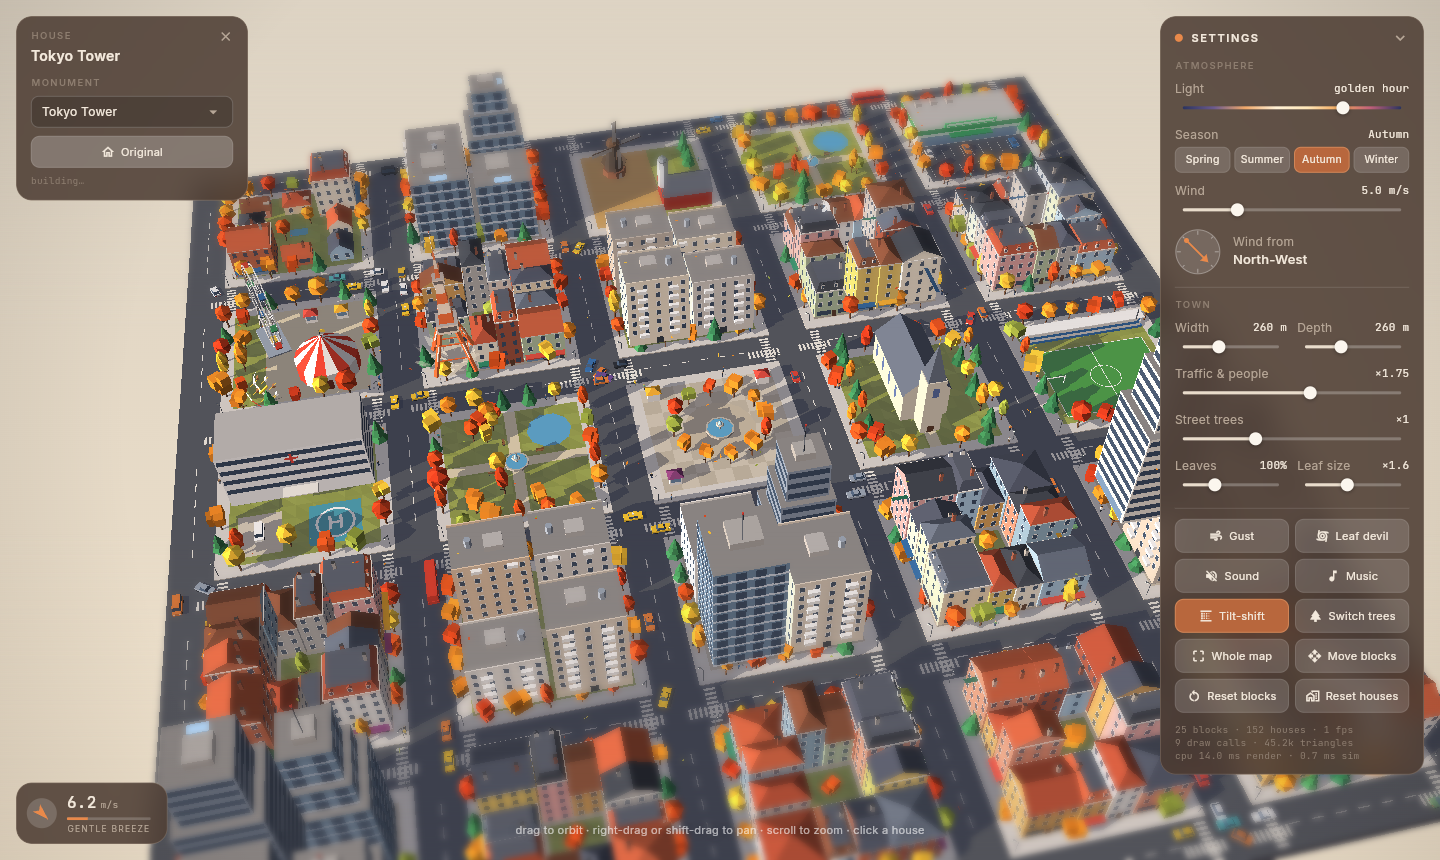
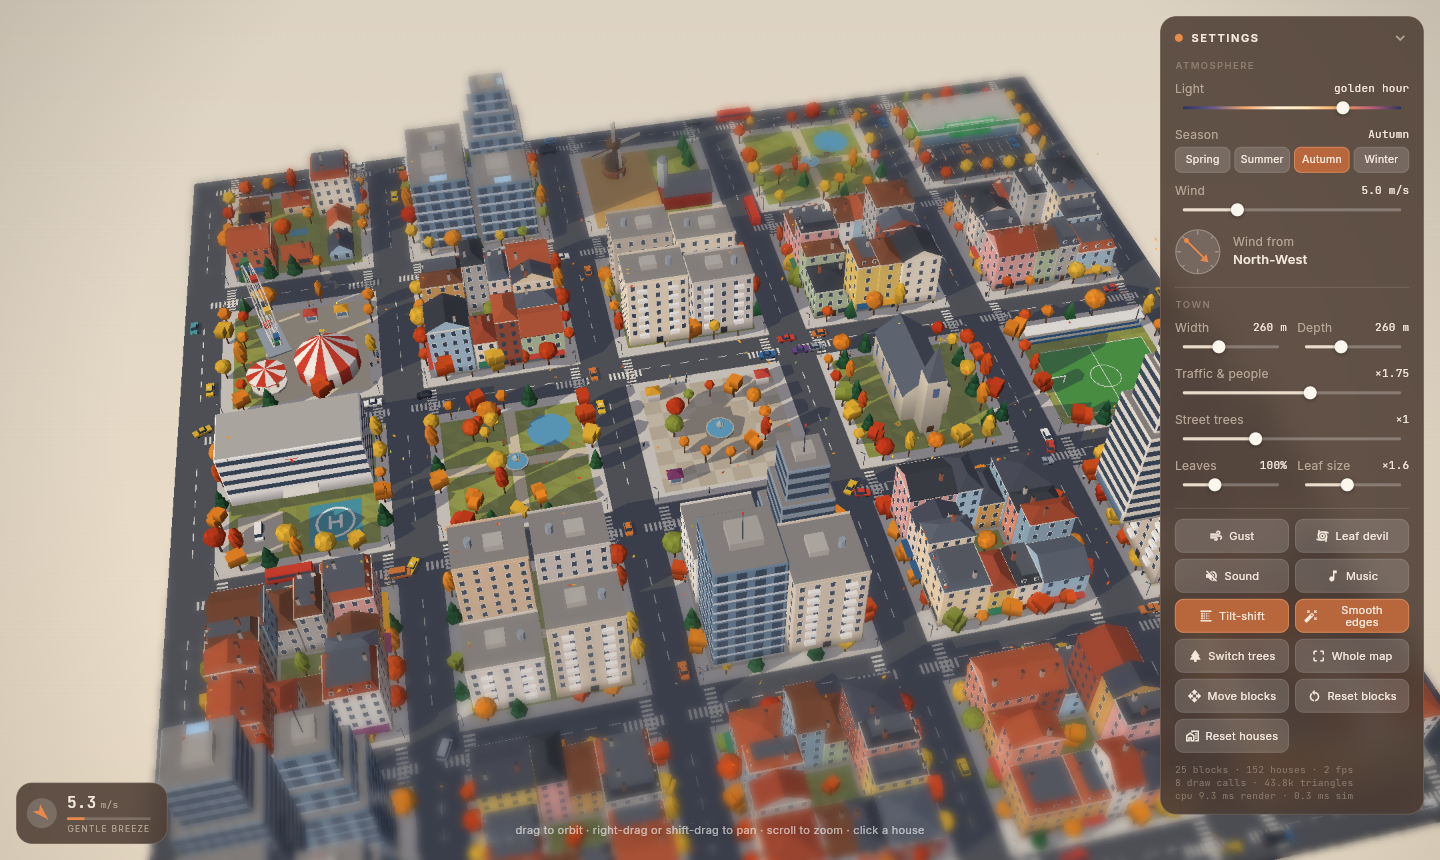
docs: v0.0.3 release notes and checkpoint
Refs #5
Refs #6

Claude-Session: https://claude.ai/code/session_01D6jNCDY1YaB34HwzHifQ66

Changed region(s): [[0.0, 0.0, 1.0, 1.0], [0.875, 0.6953, 1.0, 0.8163], [0.0938, 0.6953, 0.125, 0.7256]]

diff --git a/docs/releases/v0.0.3.md b/docs/releases/v0.0.3.md
@@ -1,0 +1,81 @@
+# Low-Poly Tile City v0.0.3: release note và checkpoint
+
+> 27/10/2026 · Nhánh `feature/v0.0.3` (tag `v0.0.3` do CI tạo khi merge) · Bản chạy: https://danny-exnodes.github.io/low-poly-tile-city/
+>
+> Tài liệu này là điểm khôi phục ngữ cảnh: agent mới đọc file này + `CLAUDE.md` là làm tiếp được. Thay cho [v0.0.2](v0.0.2.md).
+
+## 1. Sản phẩm là gì
+Thị trấn low-poly sinh thủ tục chạy trên trình duyệt (Flutter web, renderer tự viết). Xem README.
+
+Đợt góp ý 1 của chủ dự án (Roadmap #1):
+1. Mở rộng chỉ thêm đất trống → #3 ✅ v0.0.2
+2. Bộ công cụ tạo/thay đổi công trình → #7, #8 (v0.0.4)
+3. Hiệu ứng kiến trúc được xây lên từ từ → **#6 ✅ bản này**
+4. Còn lag → #4 ✅ v0.0.2
+5. Model còn góc cạnh, chưa ra low-poly → **#5 ✅ bản này**
+
+## 2. Tính năng mới trong v0.0.3
+| Nhóm | Tính năng | Issue · số liệu |
+| --- | --- | --- |
+| Phong cách | Ánh sáng dịu: diffuse quấn (wrap 0,35) + nén vùng sáng → hết cháy sáng giữa trưa | #5 · test: không kênh màu nào chạm 255 lúc 12:30 |
+| | AO theo đỉnh: chân tường tối dần, mặt dưới tán cây tối → khối tròn, mềm | #5 · màu ghi riêng cho 3 đỉnh |
+| | Bo cạnh (chamfer) tường nhà vườn, chung cư, văn phòng, siêu thị, bệnh viện; diềm mái | #5 |
+| | Tán cây tròn (icosphere 80 tam giác, viền hơi gợn); LOD cây 20 tam giác | #5 · tam giác cây 9,8k → 11,4k |
+| | Tượng đài tròn hơn (Petronas 12 cạnh, St Basil, Atomium, Christ) | #5 |
+| | Khử răng cưa bằng siêu lấy mẫu ×1,5 trên màn hình DPR < 1,5; tự tắt nếu < 45 fps trong 2 s; nút **Smooth edges** | #5 · swiftshader: bật ×1,5 → fps 4,4 → 2,75 nên mặc định thích nghi |
+| Xây dựng | Mỗi tầng là một part; công trình dựng từng phần từ dưới lên, phần đang vào rơi xuống có nảy | #6 |
+| | Hàng đợi xây: mở app dựng từng khối từ trung tâm ra (~5 s, click để bỏ qua); tượng đài, Original, Reset houses, Move blocks: nhà cũ thu xuống 0,35 s rồi nhà mới mọc lên; cây/đèn mọc lên; Switch trees/Street trees cây mọc lại | #6 |
+| | Footer "building N blocks…"; panel nhà hiện "building…" theo đúng lô | #6 |
+
+Ngân sách sau thay đổi (VM, median): render tĩnh 3,3–4,4 → 4,3–5,4 ms; xoay 3,6–4,4 → 4,8–5,3 ms; đổi giờ 6,2–9,3 → 8,6–9,9 ms; tam giác vẽ mặc định 37,9k → 42,4–43,5k (+13%). Trình duyệt (swiftshader, AA tắt): fps 4,41 → 4,62 (ngang); CPU render dart2js 5,2 → 6,5–6,8 ms.
+
+## 3. Kiến trúc: phần thay đổi
+```
+Mesh.ao (lười)          Uint8 × 3/tam giác: tường theo độ cao (0,72 → 1 trong 2,6 m), tán theo part, mặt dưới 0,75
+SceneObject.lit         nay là màu theo đỉnh (3 × số tam giác); relight nhân AO
+Light.shade             wrap diffuse + _knee() nén > 0,85; memo màu mùa theo tint
+MeshBuilder.box(bevel:) → _bevelBox (30 tam giác, 22 khi cap:false); gable có diềm
+MeshBuilder.icosphere   cầu geodesic có wobble
+buildings._body()       mỗi tầng = part (băng tường + cửa sổ + extras của tầng)
+Mesh.partRank           thứ tự dựng theo minY của part
+SceneObject.build       0..1; Renderer vẽ part có rank < build·parts, part kế tiếp rơi 3,5 m (bounce)
+World._jobs             _Job(parts | grow | demolish), _queueAll/_queueBlock/_queueLot/_demolish/_runJobs
+Renderer(supersample)   scene Picture → toImageSync(×s) → drawImageRect lọc medium
+World.reportFps         tự tắt smoothEdges sau 4 mẫu < 45 fps (khi autoSmooth)
+```
+- `updateShadows` bỏ qua object đang xây (`build < 1`); bóng cập nhật mỗi 0,4 s trong lúc xây và khi xong.
+- Nhà phố không bo cạnh (dãy nhà liền nhau, cạnh bên không thấy) để giữ ngân sách tam giác.
+- Debug hook thêm lệnh `build`, `lot`, `camera`, `smooth`, `supersample`.
+
+## 4. Giới hạn đã biết
+- Xe chồng lên nhau trong ngã tư (không tránh nhau khi rẽ).
+- Siêu lấy mẫu tốn GPU; trên máy yếu tự tắt nên vẫn có răng cưa ở DPR 1.
+- CPU render tăng ~20% so với v0.0.2 do nhiều tam giác hơn và màu theo đỉnh.
+
+## 5. Môi trường của agent
+Như v0.0.2. Thêm: `perf.cjs` nhận `PRE='[{"op":…}]'` để chạy lệnh trước khi đo; `serve.sh` đã ẩn log build.
+
+## 6. Quy trình làm việc đã thống nhất
+Không đổi (skill `tile-city-workflow`). Chủ dự án đã giao toàn quyền chạy hết roadmap.
+
+## 7. Lệnh hay dùng
+Như v0.0.2. Chụp chuỗi xây dựng:
+```bash
+node .claude/skills/qa-visual/scripts/shoot.cjs http://localhost:8084/ /tmp/s '[["t0","c({op:\"lot\",v:[6,4]}); c({op:\"build\",v:[6,4,\"tokyoTower\"]}); c({op:\"advance\",v:0.45})"],["t1","c({op:\"advance\",v:0.7})"]]'
+```
+
+## 8. Trạng thái issue
+| Issue | Trạng thái |
+| --- | --- |
+| #2, #3, #4 | ✅ v0.0.2 |
+| #5 Phong cách low-poly mềm | ✅ v0.0.3 |
+| #6 Hiệu ứng xây dần | ✅ v0.0.3 |
+| #7, #8 Công cụ xây dựng | 🟡 v0.0.4 |
+| #9–#11 Đề xuất PO | ⏸ v0.0.5 |
+
+## 9. Gợi ý việc tiếp theo (chưa thống nhất)
+- Tránh va chạm xe trong ngã tư (đèn giao thông hoặc xin đường).
+- Giàn giáo/cần cẩu trong lúc xây.
+
+## 10. Lịch sử thay đổi
+Xem danh sách commit của PR v0.0.3 (`git log --oneline v0.0.2..v0.0.3`).

diff --git a/README.md b/README.md
@@ -27,12 +27,16 @@ Một thị trấn low-poly ấm áp, sinh thủ tục trên bàn cờ ô vuông
 
 ## Phiên bản
 
+**Mới trong v0.0.3**
+- Phong cách low-poly mềm: ánh sáng dịu (hết cháy sáng giữa trưa), chân tường và mặt dưới tán cây tối dần, cạnh tường bo tròn, tán cây tròn, tượng đài nhiều cạnh hơn, khử răng cưa trên màn hình thường (tự tắt nếu máy chậm; nút **Smooth edges**) (#5).
+- Công trình được xây dần từng tầng, từ dưới lên; mở app thấy thị trấn dựng từng khối từ trung tâm ra (click để bỏ qua); đổi tượng đài, đổi chỗ khối, Reset houses đều có nhà cũ thu xuống và nhà mới mọc lên (#6).
+
 **Mới trong v0.0.2**
 - Mở rộng bản đồ chỉ thêm ô đất trống; ô bị cắt khi thu nhỏ được trả lại khi mở rộng (#3).
 - Giảm lag: bóng đổ khi kéo Light 34 → ~2 ms, tilt-shift tốn GPU ×3,1 → ×1,15, đổi chỗ 2 khối 40–52 → ~3 ms, ít hơn 40% tam giác phải vẽ (LOD cây, cành cây chỉ vẽ mùa đông); benchmark chạy trong CI (#4).
 - Quy trình nhóm agent (`.claude/skills/`), `CLAUDE.md`, checkpoint phát hành (#2).
 
-Các bản: [v0.0.2](docs/releases/v0.0.2.md) · [v0.0.1](docs/releases/v0.0.1.md) — lộ trình ở issue #1.
+Các bản: [v0.0.3](docs/releases/v0.0.3.md) · [v0.0.2](docs/releases/v0.0.2.md) · [v0.0.1](docs/releases/v0.0.1.md) — lộ trình ở issue #1.
 
 ## Chạy và build
 

diff --git a/CLAUDE.md b/CLAUDE.md
@@ -2,7 +2,7 @@
 
 Ứng dụng Flutter web: một thị trấn low-poly sinh thủ tục trên bàn cờ ô vuông, renderer tự viết (painter's algorithm trên `Canvas.drawVertices`). Bản chạy: https://danny-exnodes.github.io/low-poly-tile-city/
 
-- **Checkpoint mới nhất:** [`docs/releases/v0.0.2.md`](docs/releases/v0.0.2.md) — đọc trước khi làm gì.
+- **Checkpoint mới nhất:** [`docs/releases/v0.0.3.md`](docs/releases/v0.0.2.md) — đọc trước khi làm gì.
 - **Quy trình nhóm agent:** bộ skill trong `.claude/skills/` — bắt đầu từ `tile-city-workflow` (PO → TechLead → Developer ⇄ QA → Release → Steward).
 - **Lộ trình:** issue Roadmap #1; chỉ code issue có label `status: ready`.
 - **Kiểm tra trước push:** `.claude/skills/developer/scripts/check.sh` (analyze + test + benchmark + build).
